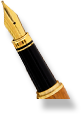
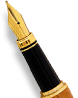
modulo masInfo

Changed region(s): [[0.0, 0.0, 0.9487, 1.0]]

diff --git a/css/style.css b/css/style.css
@@ -5,7 +5,6 @@ body{cursor: default; font: 14px 'Roboto', sans-serif; margin: 0; width: 100%;ba
 .sta-inputFixed{position:fixed;left:-999px;top:0;height:0;width:0;opacity:0}
 html.sta-noScroll,
 html.sta-noScroll body{overflow:hidden;}
-<<<<<<< HEAD
 /*modulo 8 cabecera*/ 
 .tpl-cabecera-pn {background-position: left -200px bottom -200px;background-repeat: no-repeat;padding: 50px 10px;text-align: center;color: #fff;}
 .tpl-cabecera-pn .sta-cabecera-pn_max {max-width: 250px;margin: 0 auto;}
@@ -81,138 +80,53 @@ body.regla:after {content: "";position: fixed;top: 0;bottom: 0;right: 50%;border
     background: #9c8c65;
     color: #fff;
     font: 12px/15px 'Montserrat', 'sans-serif';
-    text-align: center;
+    text-align: right;
     letter-spacing: 0.05em;
-    
+    overflow: hidden;
 }
 .tpl-masinfo-pn .sta-masinfo-pn_max  {
-    padding: 25px 70px 20px 30px;
-    
+    padding: 25px 20px; 
+    position: relative; 
 }
-.tpl-masinfo-pn .sta-masinfo-pn_content  {
+.tpl-masinfo-pn .sta-masinfo-pn_content {
+    padding-right: 60px;
 }
 .tpl-masinfo-pn .sta-masinfo-pn_content a {
-    font: bold 12px 'Montserrat', 'sans-serif';
+    font-weight: bold ;
     text-decoration: underline;
     color: #fff
 }
 .tpl-masinfo-pn img  {
     position: absolute;
-    right: 0;
-    top: 10px;
-    width: 50px;
-    height: 70px;
-    background-repeat: no-repeat;
-    background-size: unset;
+    right: -1px;
+    bottom:-33px;
+    max-width: 78px;
+    max-height: 98px;
 }
-@media (min-width: 601px) {
+.tpl-masinfo-pn img[src=""]{
+    display: none;
+}
+.tpl-masinfo-pn img[src=""] ~ .sta-masinfo-pn_content{
+    padding-right: 0;
+    text-align: center;
+}
+
+@media (min-width: 801px) {
     .tpl-masinfo-pn {
-        margin-top: 25px;
-        padding-top: 5px;
-        padding-bottom: 8px;
         font-size: 14px;
+        overflow: visible;
     }
-    .tpl-masinfo-pn .sta-masinfo-pn_conatent a {
-        font-size: 14px;
+    .tpl-masinfo-pn .sta-masinfo-pn_max  {
+        max-width: 690px;
+        margin: 0 auto;
+        padding-bottom: 30px;
+    }
+    .tpl-masinfo-pn .sta-masinfo-pn_content {
+        padding-right: 140px;
     }
     .tpl-masinfo-pn img  {
         position: absolute;
-        top: 0px;
-        
-       
-        
-        
+        bottom:0; 
+        right: 84px;
     }
-=======
-
-
-
-
-.tpl-text-pn {padding: 10px 20px 125px;background: #fff;font: 14px/ 24px 'Aleo', serif;letter-spacing: .05em;text-align: justify; color: #3b3b3b}
-.tpl-text-pn.v2{padding: 25px 15px 40px; text-align: center}
-@media (min-width:601px) {
-    .tpl-text-pn {padding: 40px 20px}
-    .tpl-text-pn .sta-text-pn_max {max-width: 690px; column-count: 2;column-gap: 45px;  display: block; margin: auto}
-    .tpl-text-pn.v2{padding: 60px 70px;}
-    .tpl-text-pn.v2 .sta-text-pn_max {column-count: auto;}
-}
-
-
-
-
-.tpl-edic-pn {padding: 30px 30px 180px; text-align: justify; background: #fff; color: #1e2c34}
-.tpl-edic-pn .sta-edic-pn_cont_tit {text-align: center; color: #9c8c65; font:14px/ 16px 'Aleo'; margin-bottom: 40px}
-.tpl-edic-pn .sta-edic-pn_cont_pp {font:14px/ 24px 'Aleo'; letter-spacing: 0.05em; vertical-align: top;}
-.tpl-edic-pn .sta-edic-pn_cont_pp:not(:first-of-type){margin-top: 25px}
-.tpl-edic-pn .sta-button {display: block; margin: 35px auto 0; background: #1e2c34; color: #FFF; border-radius: 30px; font:bold 13px 'Montserrat'; text-align: center; box-shadow:5px 6px 5px -2px rgba(0,0,0,.54); padding:15px;text-transform: uppercase; letter-spacing: .085em; text-decoration: none; border: solid 2px #1e2c34; max-width: 250px;}
-.tpl-edic-pn .sta-button:hover {background: #fff; color: #1e2c34; transition: .3s;}
-.tpl-edic-pn svg {display: block; margin: 0 auto 25px; width: 70px; height: 80px; color: #1e2c34}
-@media (min-width:601px) {
-    .tpl-edic-pn {padding: 40px 30px 40px;}
-    .tpl-edic-pn .sta-edic-pn_cont{margin: 0 auto; max-width: 900px;}
-    .tpl-edic-pn .sta-edic-pn_cont_p{margin: 0 auto; max-width: 590px; display: table; width: 100%}
-    .tpl-edic-pn .sta-edic-pn_cont_pp{display: table-cell;vertical-align: top;width: 50%; color: #1e2c34; font:14px/24px 'Aleo'; letter-spacing: 0.05em;text-align: justify;}
-    .tpl-edic-pn .sta-edic-pn_cont_tit{font:14px/ 24px 'Aleo'; letter-spacing: 0.05em}
-    .tpl-edic-pn .sta-edic-pn_cont_pp:not(:last-of-type){border-right: 1px solid rgba(0, 0, 0, 0.2);}
-    .tpl-edic-pn .sta-edic-pn_cont_pp:first-of-type{padding-right: 40px}
-    .tpl-edic-pn .sta-edic-pn_cont_pp:last-of-type{padding-left: 30px}
-}
-/*fin.tpl-ideaconcurso-pn*/
-
-
-
-/*.tpl-noticia-pn*/
-.tpl-noticia-pn{padding: 40px 40px 95px;background: #fff; color: #000;}
-.tpl-noticia-pn .sta-noticia-pn_news{position: relative; background: #f3f1e8;width: 205px; font: 13px/16px "Montserrat"; margin:0 auto 28px;padding:200px 20px 10px; letter-spacing: 0.03em; vertical-align: top;}
-.tpl-noticia-pn .sta-noticia-pn_news .sta-noticia-pn_image{height: 185px;background-repeat: no-repeat; background-position: center; background-size: cover;position: absolute; top: 0; left: 0; right: 0;}
-.tpl-noticia-pn .sta-noticia-pn_news .sta-noticia-pn_title{margin-bottom: 10px;}
-.tpl-noticia-pn .sta-noticia-pn_news .sta-noticia-pn_enlace{font-size: 11px; text-align: right;}
-.tpl-noticia-pn .sta-noticia-pn_news .sta-noticia-pn_enlace a{color: #656464;}
-.tpl-noticia-pn .sta-noticia-pn_more.sta-disable{display: none;}
-.tpl-noticia-pn .sta-noticia-pn_more{font: 16px "Montserrat"; margin-top: 20px;}
-.tpl-noticia-pn .sta-noticia-pn_more .sta-noticia-pn_button{text-decoration: underline;height: 50px;text-align: center;width: 100%;}
-.tpl-noticia-pn .sta-noticia-pn_loading{margin: 20px; text-align: center;}
-.tpl-noticia-pn .sta-noticia-pn_loading.sta-complete{display:none;}
-.tpl-noticia-pn .sta-noticia-pn_loading img{width: 100%;max-width: 300px;}
-@media (min-width: 601px){
-    .tpl-noticia-pn{padding: 47px 40px 60px;}
-    .tpl-noticia-pn .sta-noticia-pn_max {margin: 0 auto; max-width: 810px; padding-left: 37px;}
-    .tpl-noticia-pn .sta-noticia-pn_max .sta-noticia-pn_container{ min-hei_ght: 620px;}
-    .tpl-noticia-pn .sta-noticia-pn_max .sta-noticia-pn_container .sta-noticia-pn_news{display: inline-block; margin-bottom: 22px; margin-right: 20px;}
-}
-/*fin.tpl-noticia-pn*/
-
-.tpl-footer-pn {background: #0d2831; font:14px/15px 'Aleo'; letter-spacing: .05em;padding: 10px 10px 15px;text-align: center;}
-.tpl-footer-pn .sta-footer-pn_iz svg{width: 120px; height: 50px; display: inline-block; fill: #899396; margin-right: 20px}
-.tpl-footer-pn .sta-footer-pn_iz a{display: inline-block;text-decoration: none; vertical-align: middle;}
-.tpl-footer-pn .sta-footer-pn_iz a:last-of-type svg{margin-right: 0}
-.tpl-footer-pn .sta-footer-pn_der li:not(:last-of-type):not(:nth-last-of-type(2)){border-right: 1px solid #899396; padding-right: 8px; margin-right: 7px}
-.tpl-footer-pn .sta-footer-pn_der li:last-of-type{display: block;margin-top: 10px;}
-.tpl-footer-pn .sta-footer-pn_der li{display: inline-block;vertical-align: middle;}
-.tpl-footer-pn .sta-footer-pn_der {margin-top: 10px}
-.tpl-footer-pn .sta-footer-pn_der a{text-decoration: none; color: #899396}
-@media (min-width:795px) {
-    .tpl-footer-pn .sta-footer-pn_max{max-width: 940px; display: table; vertical-align: middle; margin: 0 auto; width: 100%}
-    .tpl-footer-pn .sta-footer-pn_der{text-align: right; display: table-cell; padding-left: 10px; vertical-align: middle}
-    .tpl-footer-pn .sta-footer-pn_iz { display: table-cell; text-align: left; margin-top: 10px; vertical-align: middle}
-    .tpl-footer-pn .sta-footer-pn_iz a svg{ width: 160px; height: 50px;}
-    .tpl-footer-pn .sta-footer-pn_der li:not(:last-of-type):not(:nth-last-of-type(2)){padding-right: 15px; margin-right: 15px}
-}
-
-
-.tpl-home-pn{background-repeat: no-repeat;background-size: cover; background-position: center;padding: 40px 40px 60px;color: #fff;text-align: center; font: 18px/20px "Montserrat";counter-reset: section;}
-.tpl-home-pn .sta-home-pn_text span{font: bold 40px/46px "Aleo"; display: block; letter-spacing: 0.06em; margin-bottom: 25px;}
-.tpl-home-pn ul li div:before{content: counter(section) '. ';counter-increment: section;}
-.tpl-home-pn .sta-home-pn_container li{margin-bottom: 30px; font: bold 18px "Aleo"; letter-spacing: 0.045em;}
-.tpl-home-pn .sta-home-pn_container .sta-home-pn_title{width: 150px; margin: 0 auto;}
-.tpl-home-pn .sta-home-pn_container li:last-of-type{margin-bottom: 0;}
-.tpl-home-pn .sta-home-pn_container li svg{fill:#fff; height: 70px; width: 70px; }
-.tpl-home-pn .sta-home-pn_containerbutton{margin-top: 40px;}
-.tpl-home-pn .sta-home-pn_containerbutton .sta-home-pn_button{border-radius: 15px; padding: 6px 15px; background: #f6f3e0; color: #000;font: bold 12px/15px "Montserrat"; letter-spacing: 0.016em; margin: 0 auto;border: solid 2px#f6f3e0;text-decoration: none;display:inline-block;box-shadow: 0 8px 22px -3px #000;}
-.tpl-home-pn .sta-home-pn_containerbutton .sta-home-pn_button:hover{background: transparent; color: #f6f3e0;transition: .3s;}
-@media (min-width: 601px){
-    .tpl-home-pn{padding: 80px 40px;}
-    .tpl-home-pn .sta-home-pn_max{max-width: 650px;margin: 0 auto;}
-    .tpl-home-pn .sta-home-pn_container li{display: inline-block; margin: 0px 25px 30px;vertical-align: top;}
->>>>>>> master
 }

diff --git a/modulos/tpl-masInformacion-pn.html b/modulos/tpl-masInformacion-pn.html
@@ -12,12 +12,13 @@
 </head>
 <body>
 <main>
+        <br><br><br><br><br><br><br>
     <div class="tpl-masinfo-pn">
         <div class="sta-masinfo-pn_max">
+            <img src="../images/lapiz.png"/>
             <div class="sta-masinfo-pn_content">
                 Infórmate más sobre la <strong>Cultura Eurostars</strong> en nuestro <a href="#">blog</a>.
             </div>
-            <img src="../images/lapiz.png"/>
         </div>
     </div>
 </main>
